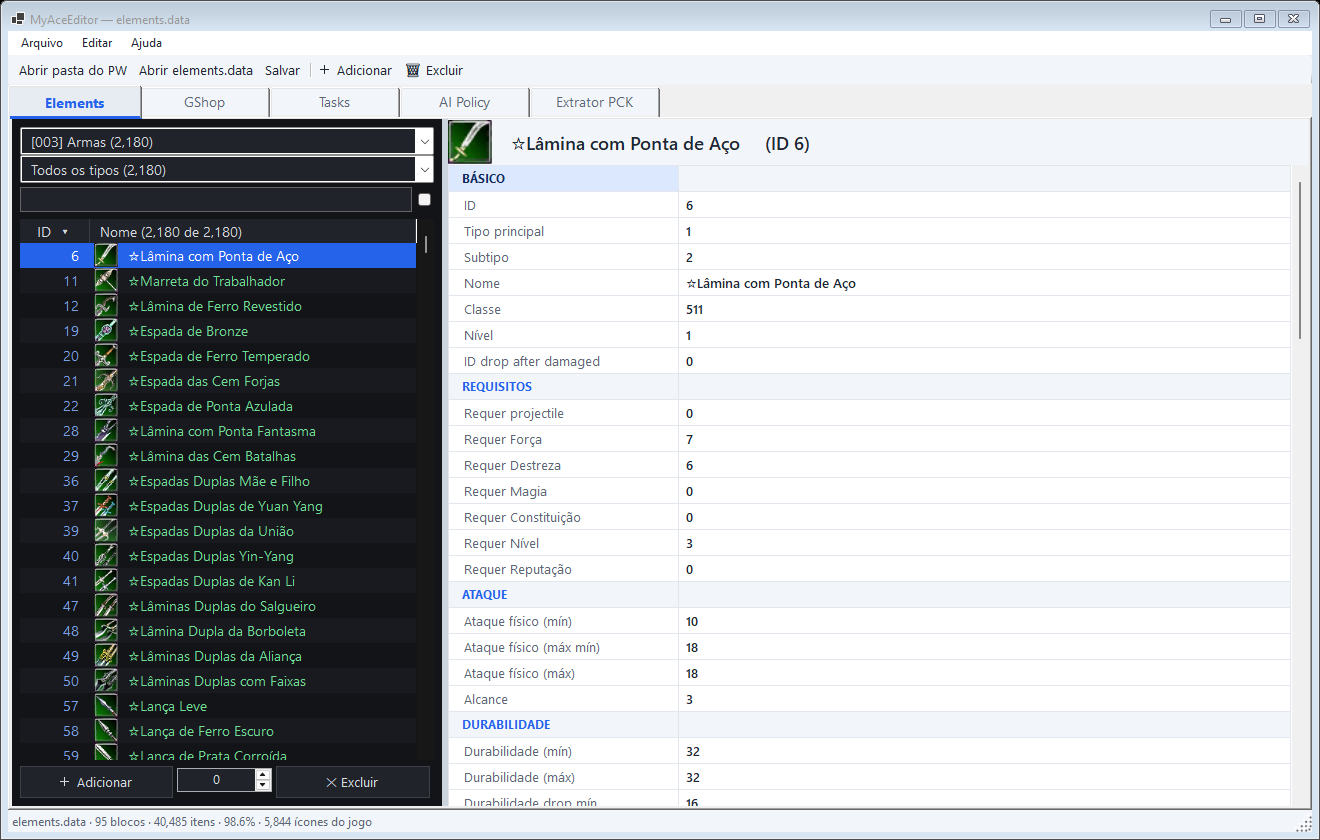
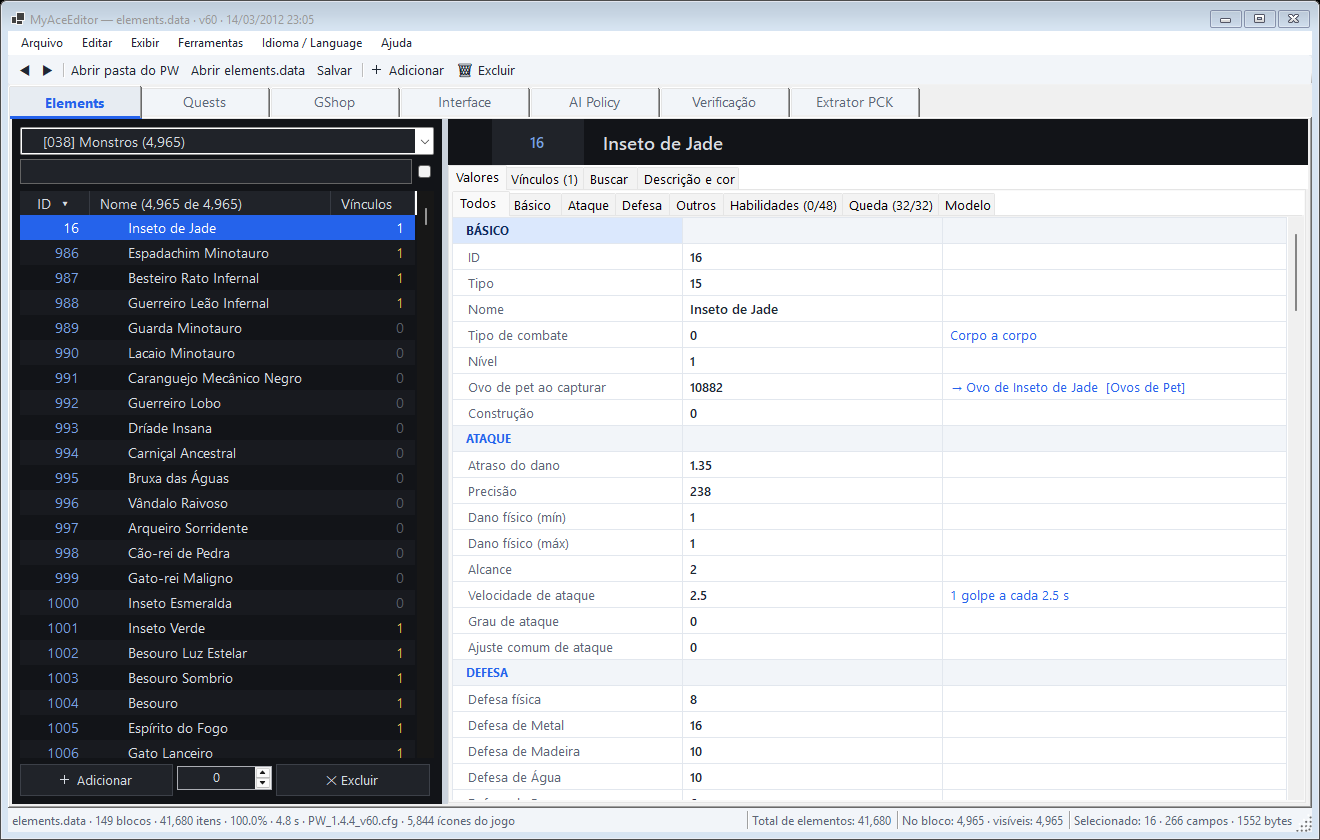
README (pt e en): recursos atuais, estado e galeria de prints
Página do repositório atualizada com tudo o que existe hoje (24/10/2026):
loja com a tela do jogo, editor de interfaces, conversão de versão,
tradutor, procurar erros, desfazer, quests com prêmios e clonagem, AI
Policy com clonagem e busca, verificação e correção do par. Prints
novos em docs/img e tabela de estado revisada, nas duas línguas.

diff --git a/README.md b/README.md
@@ -16,18 +16,54 @@ Projeto **aberto e comunitário**: a meta é tornar o Perfect World 100% editáv
 
 ## Recursos
 
-- Abre a pasta do Perfect World e **recarrega sozinho** na próxima vez.
-- Lê e **grava** o `elements.data` (cerca de 40 mil itens em 95 blocos), com prova de gravação idêntica e backup automático.
-- **Ícones reais do jogo**, lidos direto do `surfaces.pck`, sem extrair nada.
-- Tela no estilo dos editores clássicos (Rody's Angelica Editor): blocos agrupados por categoria, filtro
-  por tipo, busca, sub-abas por grupo de campos, nome na cor oficial do jogo, tooltip com drops.
-- **Duplo clique** abre editores próprios: classes (caixinhas), atributos com a descrição em português,
-  seletor de itens/monstros/receitas com ícone.
-- **Vínculos**: o que cada item usa e quem o usa, "dropado por" com chance, tudo com links.
-- Seleção múltipla e ações em lote (clonar, excluir, alterar um campo em vários itens).
-- **Quests** (`tasks.data` v93): campos, textos, diálogos e subquests.
-- **Verificação do par cliente × servidor**: aponta o que derruba o login com "versão errada".
+**Atualizado em 24/10/2026.**
+
+### Elements (`elements.data`)
+- Abre a pasta do Perfect World e **recarrega sozinho** na próxima vez; lê e **grava** o `elements.data` com prova de gravação idêntica e backup automático.
+- **Ícones reais do jogo**, lidos direto do `surfaces.pck`.
+- Tela no estilo dos editores clássicos: blocos por categoria, filtro por tipo, busca, sub-abas por grupo, nome na cor oficial do jogo.
+- **Tooltip como no jogo**: atributos, defesas por elemento, imunidades, drops com ícone e chance, e quem usa o item.
+- **Vínculos**: o que cada item usa e quem o usa; **tipos e subtipos** listam os subtipos e os itens deles (duplo clique filtra a lista).
+- Códigos explicados na própria grade (tipo de combate, agressivo, terra/água/ar, segundos por golpe).
+- **Desfazer/refazer** (Ctrl+Z/Ctrl+Y) com histórico de ações.
+- **Alterar em lote**: definir, somar, multiplicar, sequência, aleatório e substituir texto, com prévia antes/depois.
+- **Procurar erros** (Ctrl+E): IDs que não existem, probabilidades fora de 0–100% ou que não somam 100%, IDs repetidos; corrige as probabilidades com um clique.
+- **Salvar em outra versão**: converte o `elements.data` para cima ou para baixo (qualquer versão com `.cfg`), casando blocos e campos pelo nome.
+- **Traduzir com outro elements.data**: copia nomes e textos pelo ID de um arquivo já traduzido, escolhendo os blocos e só o que falta traduzir.
+
+### Loja de cash (GShop)
+- **A mesma tela do jogo**: desenhada com o `qshop.xml` do `interfaces.pck` e as texturas do `surfaces.pck`, com as fontes do próprio cliente.
+- Duplo clique no nome, no preço ou numa categoria edita ali mesmo; painel ao lado para item, quantidade, figura, descrição colorida, 4 opções de venda e presente.
+- Salva o `gshop.data` (cliente) e o `gshopsev.data` (servidor) juntos, com o mesmo timestamp; desfazer/refazer.
+
+### Quests (`tasks.data` v93)
+- Campos, textos, diálogos e subquests; **itens exigidos/dados, monstros a matar e prêmios** (ouro, exp, SP, reputação, itens) editáveis.
+- **Clonar** quest (IDs novos, textos recodificados) e **excluir** quest; nome da quest vira link a partir dos NPCs.
+
+### AI Policy (`aipolicy.data`)
+- Árvore de políticas e triggers com explicação em português, adicionar/excluir operações, **clonar política ou trigger**, busca e tradução.
+
+### Interface do jogo e pacotes
+- **Extrator de PCK nativo** (sem sPCK): prévia de imagens e textos, extrai para `<pacote>.files` como o sPCK.
+- **Editor de interfaces** dentro do extrator: as janelas do `interfaces.pck` desenhadas como no jogo; clicar, arrastar, redimensionar e mudar o texto (salva na pasta do sPCK).
+
+### Cliente × servidor
+- **Verificação do par**: aponta o que derruba o login com "versão errada" e **corrige** refazendo o lado do servidor a partir do cliente, com backup.
 - Modo **MCP**: as mesmas operações disponíveis para agentes de IA.
+- Interface em português, inglês e chinês simplificado (`lang/*.json`).
+
+### Galeria
+
+| | |
+|---|---|
+| ![Loja como no jogo](docs/img/gshop.png) | ![Editor de interfaces](docs/img/interface.png) |
+| **Loja de cash com a tela do jogo** | **Janelas do jogo editáveis** |
+| ![Tipos e subtipos](docs/img/types.png) | ![Quests](docs/img/quests.png) |
+| **Tipos de arma: subtipos e itens** | **Quests** |
+| ![Traduzir com outro elements.data](docs/img/translate.png) | ![Procurar erros](docs/img/find-errors.png) |
+| **Traduzir com outro arquivo** | **Procurar erros** |
+| ![Tooltip de monstro](docs/img/tooltip-monster.png) | ![Tooltip de arma](docs/img/tooltip-weapon.png) |
+| **Tooltip de monstro** | **Tooltip de arma** |
 
 ## Rodar
 
@@ -51,14 +87,16 @@ Gera `dist\MyAceEditor.exe`, um arquivo único que roda sem instalar nada. Copie
 
 | Área | Estado |
 |---|---|
-| `elements.data`: leitura | ✅ ~98,6% (falta a cauda de Guerra Territorial) |
-| `elements.data`: gravação | ✅ byte-idêntica, com backup automático |
-| `.pck`/`.pkx` nativo + ícones | ✅ leitura (gravação 🔜) |
-| Editores de campo, vínculos, "dropado por", seleção múltipla | ✅ |
-| Quests (`tasks.data` v93) | ✅ (edição de prêmios 🔜) |
-| Descrição e cor oficial dos itens (`configs.pck`) | ✅ leitura |
-| Verificação do par cliente × servidor | ✅ |
-| GShop, AI Policy, NPCGen | 🔜 formatos já documentados |
+| `elements.data`: leitura / gravação | ✅ ~98,6% / byte-idêntica com backup |
+| Converter `elements.data` entre versões | ✅ (formato comum; v191+ 🔜) |
+| `.pck`/`.pkx` nativo + ícones + extrator | ✅ leitura (gravação 🔜) |
+| Editores de campo, vínculos, lote, desfazer, procurar erros, tradutor | ✅ |
+| Quests (`tasks.data` v93) | ✅ campos, textos, listas e prêmios; clonar/excluir (mudar quantidade de entradas 🔜) |
+| GShop (cliente + servidor) | ✅ com a tela do jogo |
+| AI Policy | ✅ leitura, edição de operações, clonar, busca |
+| Editor de interfaces (`interfaces.pck`) | ✅ salva na pasta do sPCK (gravar `.pck` 🔜) |
+| Verificação e correção do par cliente × servidor | ✅ |
+| NPCGen, mapas, servidor de teste automático | 🔜 formatos documentados |
 
 Versão de referência testada: cliente/servidor Perfect World 1.4.4 (`elements.data` v60, `tasks.data` v93).
 O que vem pela frente está no **[roadmap](docs/ROADMAP.md)**.

diff --git a/README.en.md b/README.en.md
@@ -16,19 +16,54 @@ An **open, community project**: the goal is to make Perfect World 100% editable 
 
 ## Features
 
-- Opens the Perfect World folder and **reloads it automatically** next time.
-- Reads and **writes** `elements.data` (about 40k items in 95 blocks), with byte-identical save verification and automatic backup.
-- **Real game icons**, read straight from `surfaces.pck`, with nothing to extract.
-- Layout in the style of the classic editors (Rody's Angelica Editor): blocks grouped by category, type
-  filter, search, sub-tabs per field group, names in the official game color, drop tooltips.
-- **Double-click** opens dedicated editors: classes (checkboxes), addons with their description,
-  item/monster/recipe picker with icons.
-- **Links**: what each item uses and who uses it, "dropped by" with chance, all clickable.
-- Multi-select and bulk actions (clone, delete, change a field on many items).
-- **Quests** (`tasks.data` v93): fields, texts, dialogs and subquests.
-- **Client × server check**: points out what makes login fail with "wrong version".
+**Updated on October 24, 2026.**
+
+### Elements (`elements.data`)
+- Opens the Perfect World folder and **reloads it automatically** next time; reads and **writes** `elements.data` with byte-identical save verification and automatic backup.
+- **Real game icons**, read straight from `surfaces.pck`.
+- Layout in the style of the classic editors: blocks by category, type filter, search, sub-tabs per field group, names in the official game color.
+- **Game-like tooltips**: stats, per-element defenses, immunities, drops with icon and chance, and who uses the item.
+- **Links**: what each item uses and who uses it; **types and subtypes** list their subtypes and items (double-click filters the list).
+- Codes explained right in the grid (combat type, aggressive, land/water/air, seconds per hit).
+- **Undo/redo** (Ctrl+Z/Ctrl+Y) with action history.
+- **Bulk change**: set, add, multiply, sequence, random and replace text, with a before/after preview.
+- **Find errors** (Ctrl+E): IDs that don't exist, probabilities outside 0–100% or not adding up to 100%, duplicate IDs; probabilities fixed in one click.
+- **Save as another version**: converts `elements.data` up or down (any version with a `.cfg`), matching blocks and fields by name.
+- **Translate from another elements.data**: copies names and texts by ID from an already translated file, choosing the blocks and only what is still untranslated.
+
+### Cash shop (GShop)
+- **The same screen as the game**: drawn from `qshop.xml` in `interfaces.pck` and the textures in `surfaces.pck`, with the client's own fonts.
+- Double-click a name, a price or a category to edit it right there; side panel for item, amount, picture, colored description, 4 sale options and gift.
+- Saves `gshop.data` (client) and `gshopsev.data` (server) together with the same timestamp; undo/redo.
+
+### Quests (`tasks.data` v93)
+- Fields, texts, dialogs and subquests; **required/given items, monsters to kill and rewards** (gold, exp, SP, reputation, items) are editable.
+- **Clone** a quest (new IDs, texts re-encoded) and **delete** a quest; quest names become links from NPCs.
+
+### AI Policy (`aipolicy.data`)
+- Policy and trigger tree with plain-language explanation, add/delete operations, **clone policy or trigger**, search and translation.
+
+### Game interface and packages
+- **Native PCK extractor** (no sPCK needed): image and text preview, extracts to `<pack>.files` like sPCK.
+- **Interface editor** inside the extractor: the windows of `interfaces.pck` drawn like in the game; click, drag, resize and change text (saved to the sPCK folder).
+
+### Client × server
+- **Pair check**: points out what makes login fail with "wrong version" and **fixes** it by rebuilding the server side from the client, with backups.
 - **MCP** mode: the same operations available to AI agents.
 - Interface in Portuguese, English and Simplified Chinese (`lang/*.json`).
+
+### Gallery
+
+| | |
+|---|---|
+| ![Game-like shop](docs/img/gshop.png) | ![Interface editor](docs/img/interface.png) |
+| **Cash shop with the game screen** | **Editable game windows** |
+| ![Types and subtypes](docs/img/types.png) | ![Quests](docs/img/quests.png) |
+| **Weapon types: subtypes and items** | **Quests** |
+| ![Translate from another elements.data](docs/img/translate.png) | ![Find errors](docs/img/find-errors.png) |
+| **Translate from another file** | **Find errors** |
+| ![Monster tooltip](docs/img/tooltip-monster.png) | ![Weapon tooltip](docs/img/tooltip-weapon.png) |
+| **Monster tooltip** | **Weapon tooltip** |
 
 ## Run
 
@@ -52,14 +87,16 @@ Produces `dist\MyAceEditor.exe`, a single file that runs without installing anyt
 
 | Area | Status |
 |---|---|
-| `elements.data`: reading | ✅ ~98.6% (Territory War tail missing) |
-| `elements.data`: writing | ✅ byte-identical, with automatic backup |
-| Native `.pck`/`.pkx` + icons | ✅ reading (writing 🔜) |
-| Field editors, links, "dropped by", multi-select | ✅ |
-| Quests (`tasks.data` v93) | ✅ (reward editing 🔜) |
-| Official item description and color (`configs.pck`) | ✅ reading |
-| Client × server check | ✅ |
-| GShop, AI Policy, NPCGen | 🔜 formats already documented |
+| `elements.data`: read / write | ✅ ~98.6% / byte-identical with backup |
+| Convert `elements.data` between versions | ✅ (common format; v191+ 🔜) |
+| Native `.pck`/`.pkx` + icons + extractor | ✅ read (write 🔜) |
+| Field editors, links, bulk, undo, find errors, translator | ✅ |
+| Quests (`tasks.data` v93) | ✅ fields, texts, lists and rewards; clone/delete (changing entry counts 🔜) |
+| GShop (client + server) | ✅ with the game screen |
+| AI Policy | ✅ read, operation editing, clone, search |
+| Interface editor (`interfaces.pck`) | ✅ saves to the sPCK folder (writing `.pck` 🔜) |
+| Client × server check and fix | ✅ |
+| NPCGen, maps, automatic test server | 🔜 formats documented |
 
 Reference version tested: Perfect World 1.4.4 client/server (`elements.data` v60, `tasks.data` v93).
 What's coming next is in the **[roadmap](docs/ROADMAP.md)**.
